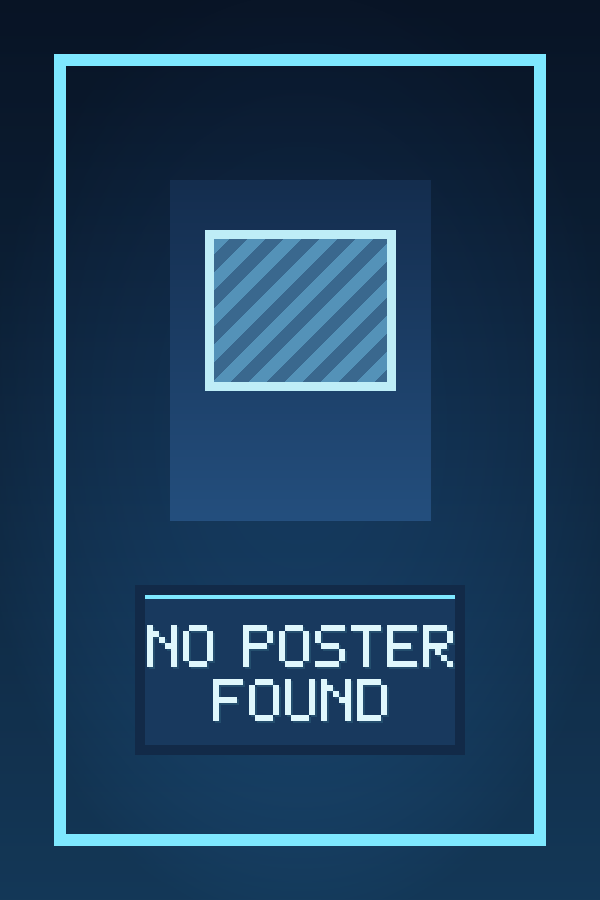
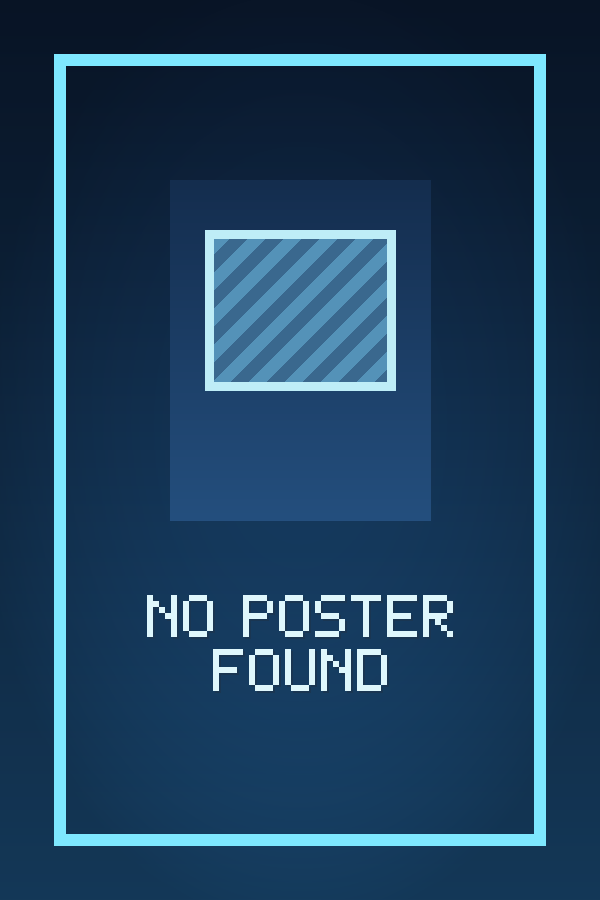
start modal

Changed region(s): [[0.24, 0.6533, 0.78, 0.84]]

diff --git a/src/components/Movies/Movies.jsx b/src/components/Movies/Movies.jsx
@@ -8,6 +8,7 @@ const Movies = () => {
   // searchTerm in input
   const [searchTerm, setSearchTerm] = useState("");
   const [isLoading, setIsLoading] = useState(false);
+  const [openModal, setOpenModal] = useState(false);
   const fallbackPoster = "/fallback-poster.png"
 
   function onSearchChange(event) {
@@ -50,7 +51,7 @@ const Movies = () => {
       />
       <section id="movie-grid">
         {movies.map((movie) => (
-          <div key={movie.imdbID} className="movie-card">
+          <div key={movie.imdbID} className="movie-card" onClick={() => console.log("Modal")}>
             <div className="movie-card__media">
               <figure>
                 <img 

diff --git a/src/components/Movies/Movies.css b/src/components/Movies/Movies.css
@@ -89,6 +89,11 @@ figure,
   overflow: hidden;
 }
 
+figure {
+  width: 100%;
+  height: 100%;
+}
+
 .movie-card__media {
   aspect-ratio: 2/3;
   min-height: 0;
@@ -100,9 +105,11 @@ figure,
 }
 
 img {
+  display: block;
   border-radius: 12px;
   width: 100%;
   height: 100%;
+  object-fit: cover;
   transition: transform 0.35s ease;
 }
 
